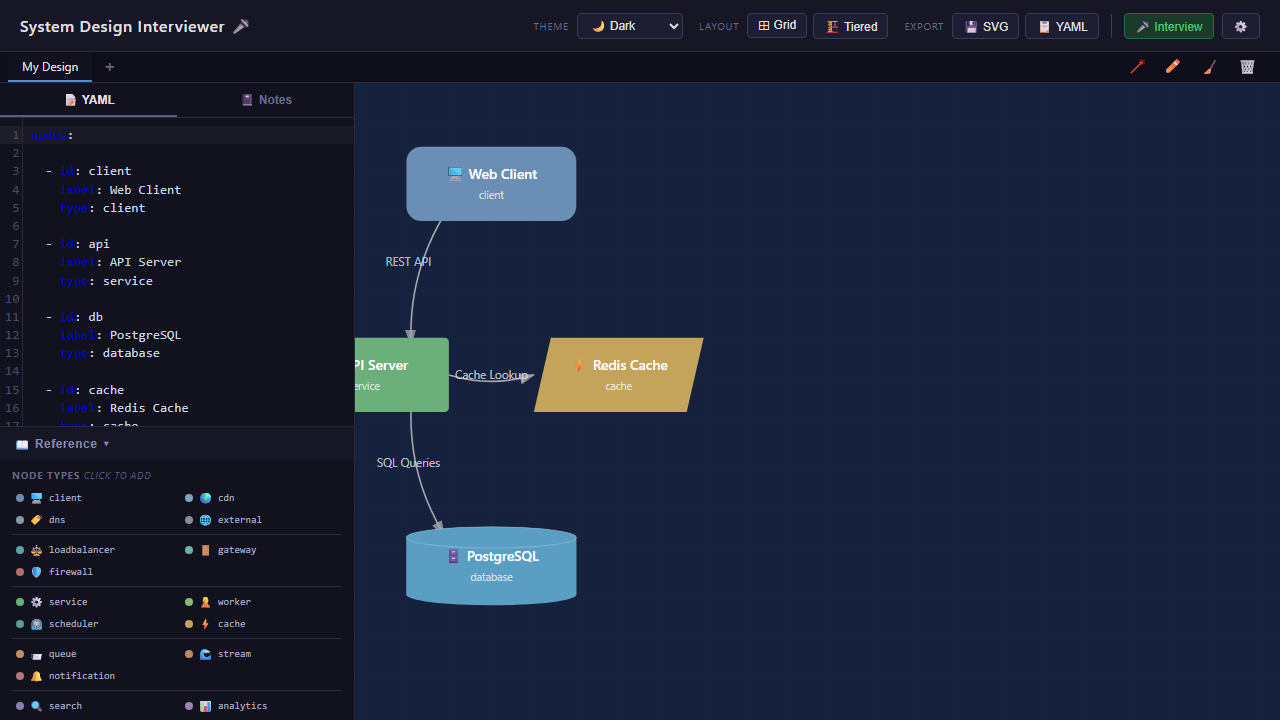
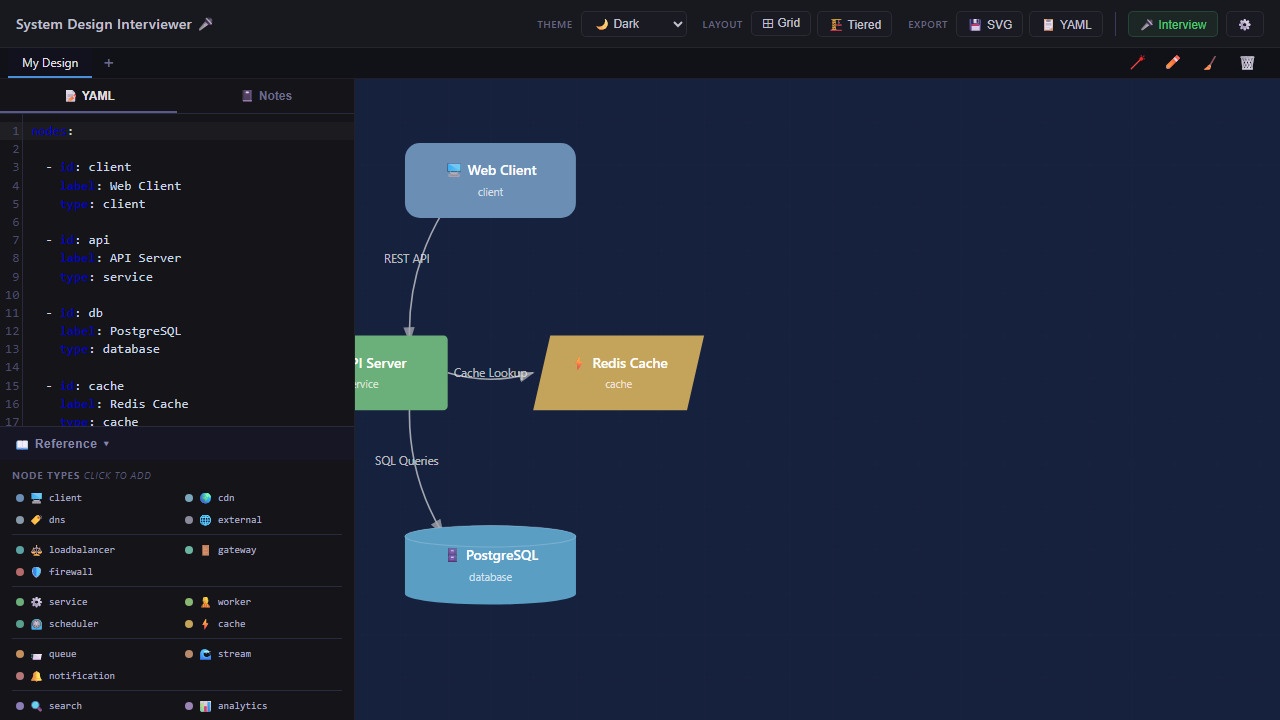
Polish UI + add API key link in settings

diff --git a/src/App.css b/src/App.css
@@ -3,27 +3,30 @@
   display: flex;
   flex-direction: column;
   height: 100vh;
-  background: #0f0f1a;
-  color: #e0e0e0;
-  font-family: 'Inter', system-ui, -apple-system, sans-serif;
+  background: #111118;
+  color: #d8d8e8;
+  font-family: 'Inter', -apple-system, BlinkMacSystemFont, 'Segoe UI', system-ui, sans-serif;
+  -webkit-font-smoothing: antialiased;
+  -moz-osx-font-smoothing: grayscale;
 }
 
 .app-header {
   display: flex;
   align-items: center;
   justify-content: space-between;
-  padding: 0 20px;
-  height: 52px;
-  background: #161625;
-  border-bottom: 1px solid #2a2a3e;
+  padding: 0 16px;
+  height: 48px;
+  background: #18181f;
+  border-bottom: 1px solid rgba(255,255,255,0.06);
   flex-shrink: 0;
 }
 
 .app-header h1 {
   margin: 0;
-  font-size: 16px;
+  font-size: 14px;
   font-weight: 600;
-  letter-spacing: 0.5px;
+  letter-spacing: 0.3px;
+  color: #c0c0d0;
 }
 
 .header-actions {
@@ -40,18 +43,18 @@
 }
 
 .toolbar-btn-interview {
-  background: #1a3a2a !important;
-  border-color: #2a6a4a !important;
+  background: rgba(80, 200, 120, 0.08) !important;
+  border-color: rgba(80, 200, 120, 0.2) !important;
   color: #50C878 !important;
 }
 
 .toolbar-btn-interview:hover {
-  background: #2a5a3a !important;
-  border-color: #3a8a5a !important;
+  background: rgba(80, 200, 120, 0.15) !important;
+  border-color: rgba(80, 200, 120, 0.35) !important;
 }
 
 .toolbar-btn-interview:disabled {
-  opacity: 0.4;
+  opacity: 0.35;
   cursor: not-allowed;
 }
 
@@ -66,12 +69,12 @@
 .tab-bar {
   display: flex;
   align-items: stretch;
-  background: #0e0e1a;
-  border-bottom: 1px solid #2a2a3e;
+  background: #111118;
+  border-bottom: 1px solid rgba(255,255,255,0.06);
   padding: 0 8px;
   flex-shrink: 0;
   overflow: visible;
-  gap: 2px;
+  gap: 1px;
 }
 
 .tab {
@@ -241,8 +244,8 @@
   flex: 1;
   display: flex;
   flex-direction: column;
-  background: #12121f;
-  border-right: 1px solid #2a2a3e;
+  background: #141419;
+  border-right: 1px solid rgba(255,255,255,0.06);
 }
 
 .resize-handle {
@@ -562,16 +565,17 @@
 .toolbar-label {
   font-size: 10px;
   text-transform: uppercase;
-  letter-spacing: 0.8px;
-  color: #6a6a8a;
+  letter-spacing: 0.6px;
+  color: #666680;
   margin-right: 2px;
+  font-weight: 500;
 }
 
 .toolbar-select {
-  background: #1e1e32;
-  color: #e0e0e0;
-  border: 1px solid #3a3a5a;
-  border-radius: 4px;
+  background: #1a1a22;
+  color: #c0c0d0;
+  border: 1px solid rgba(255,255,255,0.08);
+  border-radius: 5px;
   padding: 4px 8px;
   font-size: 12px;
   cursor: pointer;
@@ -579,14 +583,14 @@
 }
 
 .toolbar-select:hover {
-  border-color: #5a5a8a;
+  border-color: rgba(255,255,255,0.15);
 }
 
 .toolbar-btn {
-  background: #1e1e32;
-  color: #e0e0e0;
-  border: 1px solid #3a3a5a;
-  border-radius: 4px;
+  background: #1a1a22;
+  color: #c0c0d0;
+  border: 1px solid rgba(255,255,255,0.08);
+  border-radius: 5px;
   padding: 4px 10px;
   font-size: 12px;
   cursor: pointer;
@@ -594,12 +598,12 @@
 }
 
 .toolbar-btn:hover {
-  background: #2a2a45;
-  border-color: #5a5a8a;
+  background: #222230;
+  border-color: rgba(255,255,255,0.15);
 }
 
 .toolbar-btn:active {
-  transform: scale(0.96);
+  transform: scale(0.97);
 }
 
 /* ---- Toast ---- */
@@ -649,14 +653,14 @@
 }
 
 .settings-dialog {
-  background: #1a1a2e;
-  border: 1px solid #2a2a3e;
+  background: #1a1a22;
+  border: 1px solid rgba(255,255,255,0.08);
   border-radius: 12px;
   width: 560px;
   max-height: 80vh;
   display: flex;
   flex-direction: column;
-  box-shadow: 0 20px 60px rgba(0, 0, 0, 0.5);
+  box-shadow: 0 24px 80px rgba(0, 0, 0, 0.6);
 }
 
 .settings-header {
@@ -702,25 +706,39 @@
   margin-bottom: 10px;
 }
 .settings-field label {
-  display: block;
+  display: flex;
+  align-items: center;
+  justify-content: space-between;
   font-size: 12px;
-  color: #9999bb;
+  color: #9999aa;
   margin-bottom: 4px;
+}
+
+.settings-link {
+  font-size: 11px;
+  color: #4A90D9;
+  text-decoration: none;
+  font-weight: 400;
+}
+.settings-link:hover {
+  color: #6ab0f9;
+  text-decoration: underline;
 }
 
 .settings-input, .settings-select, .settings-textarea {
   width: 100%;
-  background: #12121f;
-  border: 1px solid #3a3a5a;
-  color: #e0e0e0;
+  background: #141419;
+  border: 1px solid rgba(255,255,255,0.08);
+  color: #d8d8e8;
   padding: 8px 10px;
   border-radius: 6px;
   font-size: 13px;
   outline: none;
   box-sizing: border-box;
+  transition: border-color 0.15s;
 }
 .settings-input:focus, .settings-select:focus, .settings-textarea:focus {
-  border-color: #5a5a8a;
+  border-color: rgba(74, 144, 217, 0.4);
 }
 
 .settings-textarea { resize: vertical; font-family: inherit; }
@@ -808,14 +826,14 @@
 }
 
 .setup-dialog {
-  background: #1a1a2e;
-  border: 1px solid #2a2a3e;
+  background: #1a1a22;
+  border: 1px solid rgba(255,255,255,0.08);
   border-radius: 12px;
   width: 680px;
   max-height: 85vh;
   display: flex;
   flex-direction: column;
-  box-shadow: 0 20px 60px rgba(0, 0, 0, 0.5);
+  box-shadow: 0 24px 80px rgba(0, 0, 0, 0.6);
 }
 
 .setup-header {
@@ -848,16 +866,17 @@
 
 .setup-input, .setup-select, .setup-textarea {
   width: 100%;
-  background: #12121f;
-  border: 1px solid #3a3a5a;
-  color: #e0e0e0;
+  background: #141419;
+  border: 1px solid rgba(255,255,255,0.08);
+  color: #d8d8e8;
   padding: 8px 10px;
   border-radius: 6px;
   font-size: 13px;
   outline: none;
   box-sizing: border-box;
+  transition: border-color 0.15s;
 }
-.setup-input:focus, .setup-select:focus { border-color: #5a5a8a; }
+.setup-input:focus, .setup-select:focus { border-color: rgba(74, 144, 217, 0.4); }
 
 .setup-word-count {
   font-size: 10px;
@@ -1038,14 +1057,15 @@
   top: 16px;
   right: 16px;
   z-index: 1500;
-  background: rgba(22, 22, 37, 0.85);
-  backdrop-filter: blur(12px);
-  border: 1px solid #2a2a3e;
+  background: rgba(20, 20, 28, 0.88);
+  backdrop-filter: blur(16px);
+  -webkit-backdrop-filter: blur(16px);
+  border: 1px solid rgba(255,255,255,0.08);
   border-radius: 12px;
   padding: 10px 14px;
   min-width: 240px;
   max-width: 320px;
-  box-shadow: 0 8px 32px rgba(0, 0, 0, 0.4);
+  box-shadow: 0 8px 32px rgba(0, 0, 0, 0.5);
   transition: all 0.2s ease;
   font-size: 13px;
 }

diff --git a/src/components/settings/SettingsPage.tsx b/src/components/settings/SettingsPage.tsx
@@ -35,7 +35,17 @@ const SettingsPage: React.FC<Props> = ({ settings, onUpdate, onClose }) => {
           <section className="settings-section">
             <h3>🔑 Gemini API</h3>
             <div className="settings-field">
-              <label>API Key</label>
+              <label>
+                API Key
+                <a
+                  href="https://aistudio.google.com/app/api-keys"
+                  target="_blank"
+                  rel="noopener noreferrer"
+                  className="settings-link"
+                >
+                  Get a key →
+                </a>
+              </label>
               <div className="settings-key-row">
                 <input
                   type={showKey ? 'text' : 'password'}
